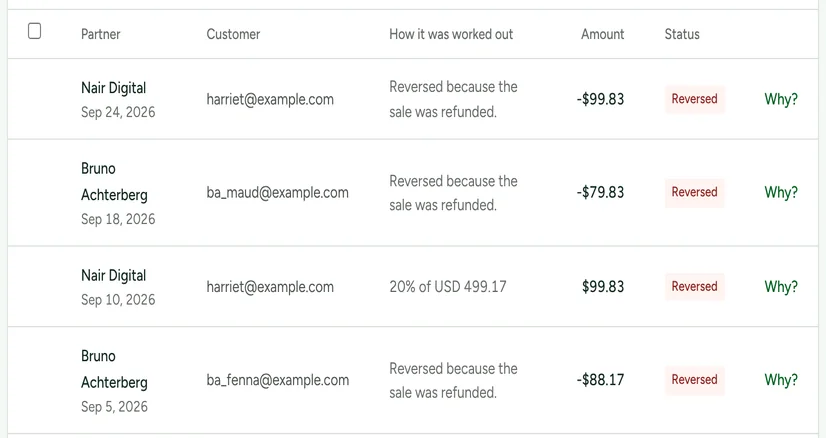
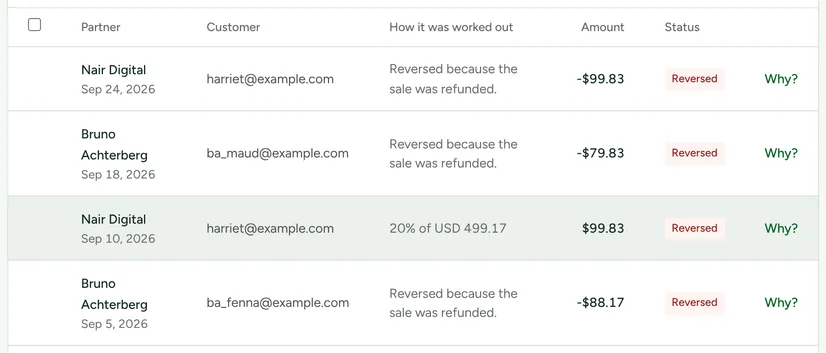
Four of the owner's calls: the FAQ question, the wording, the stack, the ledger
- "What isn't built yet?" is out of both FAQs, the home section and
  /faq/; claims.md records it.
- "Each needs a person's press, once." reads "Each needs a click, once."
  in both.
- The developers page loses the stack block (D5); the OpenAPI block is
  centred in that section on its own.
- The ledger screenshot is cut on whole rows: the Reversed list's header
  and four rows, the reversal and the entry it undoes, nothing cut
  mid-row. capture-shots.mjs cuts it that way from now on.

Claude-Session: https://claude.ai/code/session_01BRpQnNAbjE5A6WQ4j62twe

diff --git a/src/lib/shots.ts b/src/lib/shots.ts
@@ -68,8 +68,8 @@ export const SHOTS = {
   ledger: shot(
     "ledger",
     826,
-    438,
-    "The commission ledger filtered to reversals: a row reading Reversed because the sale was refunded, minus $99.83, beside the original entry 20% of USD 499.17, $99.83, each with a Why? link.",
+    353,
+    "The commission ledger filtered to reversals, four whole rows: Reversed because the sale was refunded, minus $99.83, and the original entry it undoes, 20% of USD 499.17, $99.83, each with a Why? link.",
   ),
   payouts: shot(
     "payouts",

diff --git a/claims.md b/claims.md
@@ -83,9 +83,8 @@ screen beside each.
 | Hosted in the EU, in Romania; CSV export, every download recorded | FAQ | O2, D6 |
 | The AI provably never sees bank details; no connected app hands them over | FAQ | AI4 |
 | An automation can email, tag, move a partner along or raise something; it cannot touch money | FAQ | M3 |
-| A file for PayPal, Wise or the bank, or PayPal from own balance; each needs a person's press, once | FAQ | P2, P3 |
+| A file for PayPal, Wise or the bank, or PayPal from own balance; each needs a click, once | FAQ | P2, P3 |
 | Paid history labelled as the old platform's, never payable; owed amounts as an opening balance pending approval | FAQ | G5 |
-| Early product; beyond Stripe, Shopify, WooCommerce and Zapier, integrations have not met the real provider and say so; Paddle is not built | FAQ | L1, L8, L2 |
 | Support address and the legal sender | Footer | O1 |
 | No cookies on this site | Footer | no fact needed: a property of this site, not the product (§9, analytics) |
 
@@ -96,9 +95,10 @@ screen beside each.
 - No testimonial, logo, count or certification (§5; L5, L7).
 - The line under the Works with row ("Most were built from each provider's
   documentation and are being tested on live accounts") came out on the
-  owner's call of 9 October, on every page that has the row. The names say
-  "works with" and nothing more (L2), and the FAQ's "What isn't built yet?"
-  still says which integrations have met the real service (L8).
+  owner's call of 9 October, on every page that has the row, and so did the
+  FAQ question "What isn't built yet?", on the home page and on /faq/. The
+  names say "works with" and nothing more (L2), and no page says an
+  integration is tested, certified or listed (L8, L9).
 
 ## Page: `/product/intelligence/`
 
@@ -257,7 +257,7 @@ Copy: 9 October 2026, for the technical evaluator (prompt §6).
 
 ### Screens shown
 
-None. The two code samples are written out: the tracker as the product's Integrations screen prints it, with the production host, and a `POST /api/v1/events` with the `Idempotency-Key` header, as the same screen's "Server events" card prints it.
+None. The two code samples are written out: the tracker as the product's Integrations screen prints it, with the production host, and a `POST /api/v1/events` with the `Idempotency-Key` header, as the same screen's "Server events" card prints it. The stack (D5) is not on the page: it came out on the owner's call of 9 October.
 
 ### Claims
 
@@ -279,7 +279,6 @@ None. The two code samples are written out: the tracker as the product's Integra
 | Claude and ChatGPT over MCP read what the role may read and save drafts; no tool approves, reverses, pays, reattributes, suspends or sends | Build on | D11, AI3 |
 | The whole account as CSV in one archive, every download recorded | Build on | D6 |
 | OpenAPI 3.1, 454 paths, the whole Server API; the live API at go.refficks.com; no public address for the document yet | OpenAPI | D4 |
-| Laravel 13, PHP 8.4, MySQL 8.4, Redis 7, Next.js 16, React 19, Caddy; hosted by Refficks, nothing to install | The stack | D5, D1 |
 
 ## Page: `/migrate/`
 
@@ -311,7 +310,7 @@ Copy: 9 October 2026, from G1 to G7. The honest section (G5) is a band of its ow
 
 ## Page: `/faq/`
 
-Copy: 9 October 2026. The pricing question waits for billing (O3 to O5; §6 Pricing).
+Copy: 9 October 2026. The pricing question waits for billing (O3 to O5; §6 Pricing); "What isn't built yet?" came out on the owner's call of 9 October.
 
 ### Screens shown
 
@@ -326,7 +325,7 @@ None.
 | Deleted 90 days after closing, connections revoked; visits and clicks two years except decided touches, correspondence two years, legal records seven; erasure on request | Your data | D7 |
 | No raw IP; salted hashes; buyer IP replaced with its hash; GPC writes nothing | Your data | T4 |
 | Isolation is a tested property | Your data | D2 |
-| A file for PayPal, Wise or the bank, or PayPal from own balance; a person's press, once; no timer, automation or AI | Money | P2, P3 |
+| A file for PayPal, Wise or the bank, or PayPal from own balance; a click, once; no timer, automation or AI | Money | P2, P3 |
 | An automation's six things; never money | Money | M3 |
 | A reversal beside the original; history never edited | Money | C3 |
 | Payout details encrypted, never shown; leave only in the file or to PayPal, recorded | Money | P4 |
@@ -339,7 +338,6 @@ None.
 | Five programme types on by default; reseller is a B2B partner on a revenue share | What it is | L3 |
 | No machine learning; deterministic rules | What it is | I8 |
 | Hosted only, at app.refficks.com | What it is | D1, L4 (said as what is offered, never as a self-hosting mention) |
-| Early; only Stripe, Shopify, WooCommerce, Zapier, Claude and ChatGPT have met the real service, partly; the rest from documentation and stand-ins; Paddle not built; Slack, YouTube checks, AppsFlyer and billing switched off | What it is | L1, L8, L2, L10 |
 | In no app directory; installed by hand | What it is | L9, T6 |
 
 ## Page: `/stores/`
